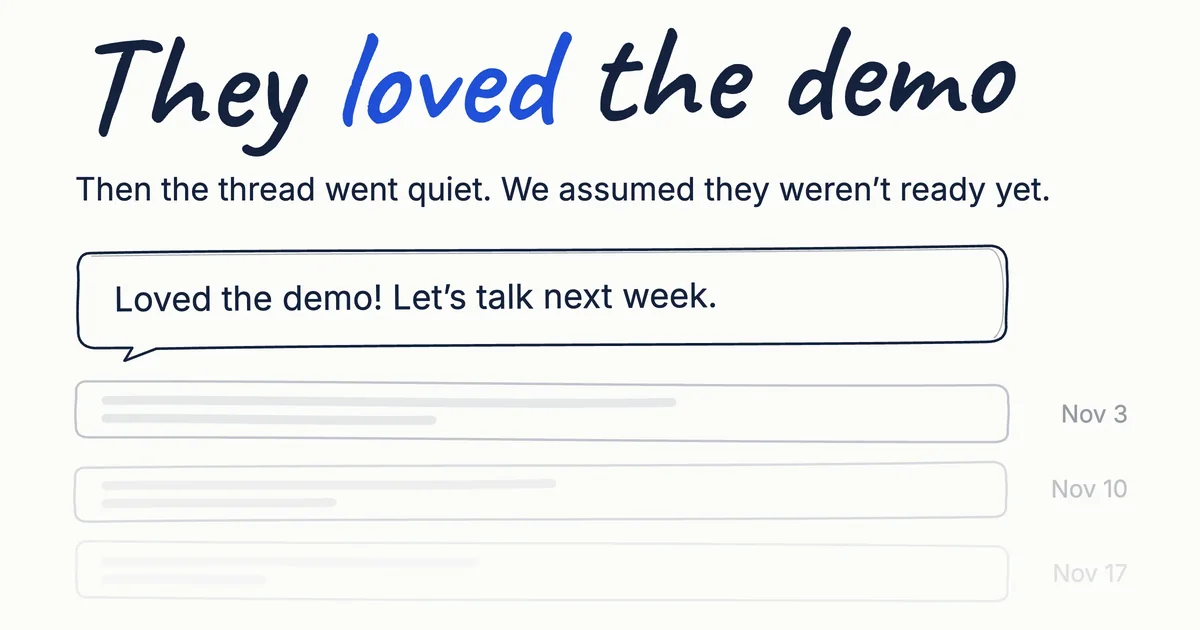
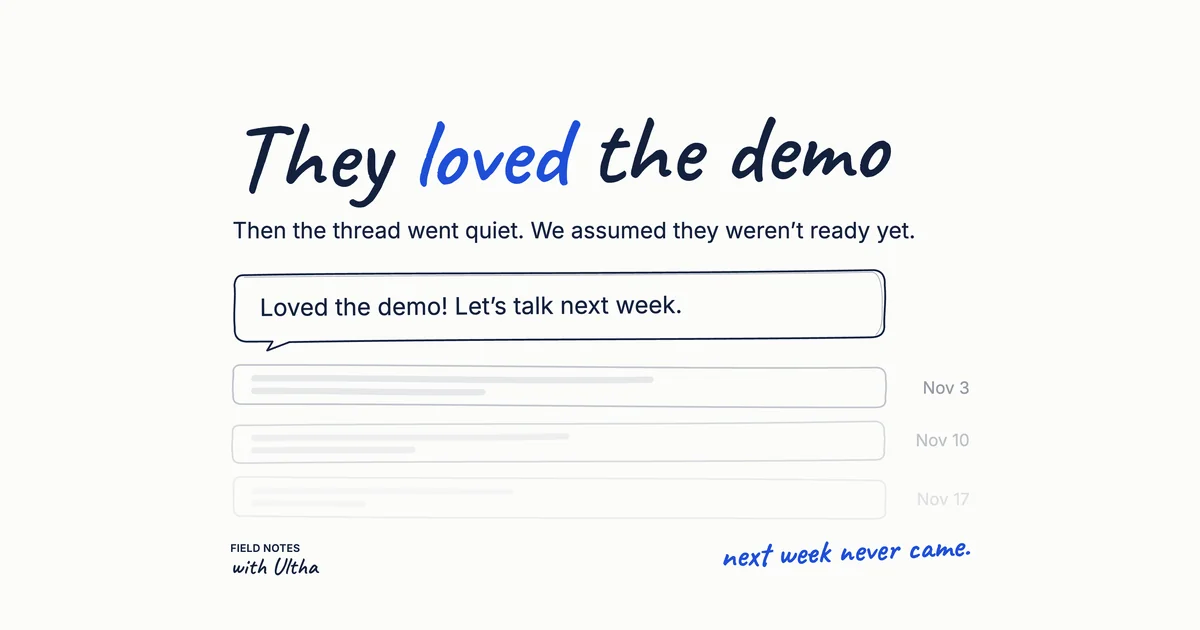
Add remaining Field Notes Issue 1 images and official OG crop
Replace the four in-article placeholders with the approved graphics, displayed at a max width of 600px, and use the official 1200×630 link-preview crop, which includes the wordmark and “next week never came.”

diff --git a/field-notes/issue-1.html b/field-notes/issue-1.html
@@ -53,21 +53,7 @@
   .article li { margin: 0 0 14px; }
   .article em { font-style: italic; }
   .signoff { margin-top: 28px; }
-  .img-ph {
-    aspect-ratio: 4 / 3;
-    background: #EEF3FE;
-    border: 2px dashed #D5DFF8;
-    border-radius: 16px;
-    display: flex;
-    align-items: center;
-    justify-content: center;
-    text-align: center;
-    padding: 24px;
-    margin: 24px 0 28px;
-    color: #424A5E;
-    font-size: 0.95rem;
-    line-height: 1.45;
-  }
+  .article-img { display: block; width: 100%; max-width: 600px; height: auto; border-radius: 16px; margin: 24px auto 28px; background: var(--blue); }
   @media (max-width: 640px) {
     body { font-size: 16.5px; }
     .article { padding-top: 24px; padding-bottom: 64px; }
@@ -121,30 +107,46 @@
   <p>Praise on a good call is easy to treat as a buying signal. That is what <a href="https://www.linkedin.com/in/rsnyder1">Rob Snyder</a>, who wrote <em>The Power of Pull</em>, summed up well: it is "so simple to mistake 'enthusiasm' for 'demand' in a sales call."</p>
   <p>You will hear that the demo was awesome, that it resonates, or that the company would definitely benefit. Those lines sound like demand. They usually are not. What Rob looks for is whether the buyer is fitting this into a project they are personally trying to get done right now. That can sound like they are already trying to solve this, or like a question about how you fit a system they already use. It does not sound like a what-if about a big company copying you.</p>
   <p>My rule of thumb: write down the project they named after the demo. If you only have compliments, you heard enthusiasm.</p>
-  <!-- Swap placeholder for: /img/field-notes/issue-1/image-3.webp -->
-  <div class="img-ph" role="img" aria-label="Which one is buying intent?">IMAGE 3 placeholder: "Which one is buying intent?"</div>
+  <img class="article-img"
+    src="/img/field-notes/issue-1/image-3-1200.webp"
+    srcset="/img/field-notes/issue-1/image-3-1200.webp 1200w, /img/field-notes/issue-1/image-3.webp 2400w"
+    sizes="(max-width: 600px) 100vw, 600px"
+    width="1200" height="1200"
+    alt="Which one is buying intent?">
   <p>Only the last one is a buying signal. It names a project with a deadline: cutting the ticket backlog before Q1. It also asks how this fits Zendesk, a tool they already use. The other three are compliments.</p>
 
   <h3>2. They meant to buy, then didn't.</h3>
   <p>I used to think a quiet thread after a great call meant they needed more time. Not so.</p>
   <p>Matt and Ted share that same range on their <a href="https://www.jolteffect.com/blog/what-is-the-jolt-effect">JOLT Effect site</a>. They say those deals were lost to customer indecision, not to a competing vendor. 44% of those no-decision losses came from a preference for the status quo. The other 56% came from risk or fear of failure.</p>
   <p>Sellers who pushed harder against the status quo found that "this approach backfired 84% of the time." I suspect a lot of the quiet threads after a great call sit in that second group. The buyer meant it. Then the risk of being wrong took over. A lot of those still get logged as timing.</p>
-  <!-- Swap placeholder for: /img/field-notes/issue-1/image-2.webp -->
-  <div class="img-ph" role="img" aria-label="40–60% of deals with buying intent end in no decision (source: Dixon &amp; McKenna, The JOLT Effect)">IMAGE 2 placeholder: "40–60% of deals with buying intent end in no decision" (source: Dixon &amp; McKenna, The JOLT Effect)</div>
+  <img class="article-img"
+    src="/img/field-notes/issue-1/image-2-1200.webp"
+    srcset="/img/field-notes/issue-1/image-2-1200.webp 1200w, /img/field-notes/issue-1/image-2.webp 2400w"
+    sizes="(max-width: 600px) 100vw, 600px"
+    width="1200" height="1200"
+    alt="40–60% of deals with buying intent end in no decision (source: Dixon &amp; McKenna, The JOLT Effect)">
 
   <h3>3. The spreadsheet still works well enough.</h3>
   <p>What they already use can beat a strong demo.</p>
   <p>To name the real competition, <a href="https://www.linkedin.com/in/aprildunford">April Dunford</a> tells teams to think about competitive alternatives, not only rival products. The first alternative to beat is the status quo: how they were solving it today. Buyers use spreadsheets, documents, and manual processes. Or they make do with a limited feature inside a bigger tool they already have. Those options, she writes, "are chosen because they are easy to get started with, cheap or free, and frequently do the job good enough in a pinch." Sometimes they would do nothing. Sometimes they would hire an intern to handle it.</p>
   <p>Ask how they handle this today. Then ask whether that still works well enough for them.</p>
-  <!-- Swap placeholder for: /img/field-notes/issue-1/image-4.webp -->
-  <div class="img-ph" role="img" aria-label="What AI startups really lose deals to">IMAGE 4 placeholder: "What AI startups really lose deals to"</div>
+  <img class="article-img"
+    src="/img/field-notes/issue-1/image-4-1200.webp"
+    srcset="/img/field-notes/issue-1/image-4-1200.webp 1200w, /img/field-notes/issue-1/image-4.webp 2400w"
+    sizes="(max-width: 600px) 100vw, 600px"
+    width="1200" height="1200"
+    alt="What AI startups really lose deals to">
 
   <h3>4. Switching still felt too risky.</h3>
   <p>A buyer can want the product and still stay put.</p>
   <p>In Jobs-to-be-Done interviewing, <a href="https://www.linkedin.com/in/bobmoesta">Bob Moesta</a> and Chris Spiek developed the Four Forces of Progress. On <a href="https://jobstobedone.org/the-four-forces/">jobstobedone.org</a>, a customer switches when the pain of today plus the pull of a better life are stronger than fear and habit. Push is the pain of how things work now. Pull is the better life they can picture. Anxiety is fear that it will not work, that they will look foolish, or that something will happen to their data. Habit is sticking with what they already know and do. Most teams spend their energy making the product more attractive. They skip how scary the switch feels, and how easy it is to stay put. Bob and Chris write, "Flip that inequality and the customer stays put, no matter how good your product is."</p>
   <p>Where I'd bet: most early-stage AI pitches lean hard on pull. They skip the messy switch the buyer is already picturing.</p>
-  <!-- Swap placeholder for: /img/field-notes/issue-1/image-5.webp -->
-  <div class="img-ph" role="img" aria-label="Your prospect's to-do list after a great demo">IMAGE 5 placeholder: "Your prospect's to-do list after a great demo"</div>
+  <img class="article-img"
+    src="/img/field-notes/issue-1/image-5-1200.webp"
+    srcset="/img/field-notes/issue-1/image-5-1200.webp 1200w, /img/field-notes/issue-1/image-5.webp 2400w"
+    sizes="(max-width: 600px) 100vw, 600px"
+    width="1200" height="1200"
+    alt="Your prospect's to-do list after a great demo">
 
   <h3>5. They left with the wrong idea of what this is.</h3>
   <p>The category you pick tells the buyer what to assume. Call something a CRM and buyers assume you compete with Salesforce. They assume you sell to the head of sales. They assume you cost less than the market leader. An AI buyer who files you as another chatbot will guess the wrong user, the wrong features, and the wrong price. The same thing happens if they see you as a feature of a tool they already have.</p>
